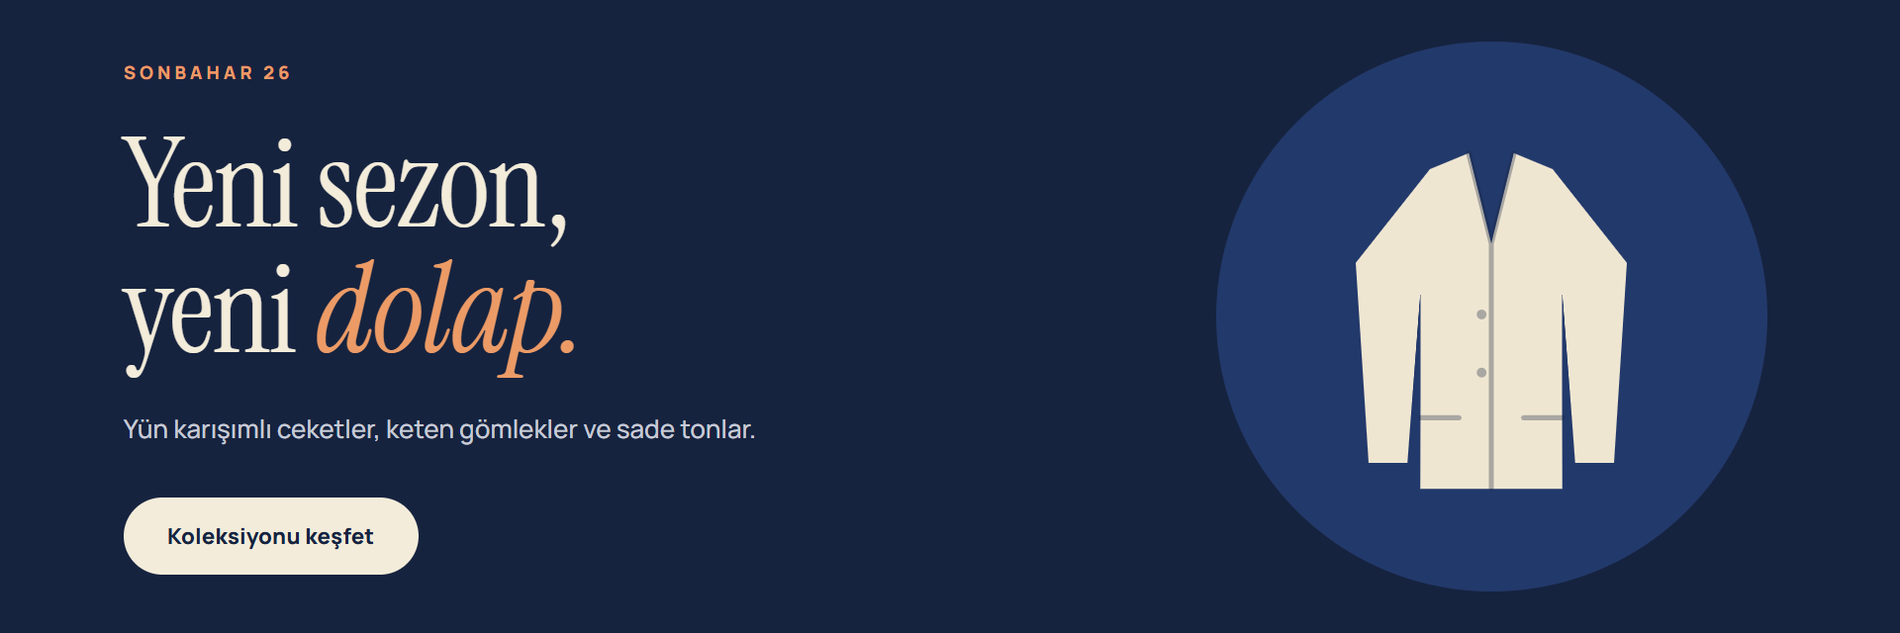
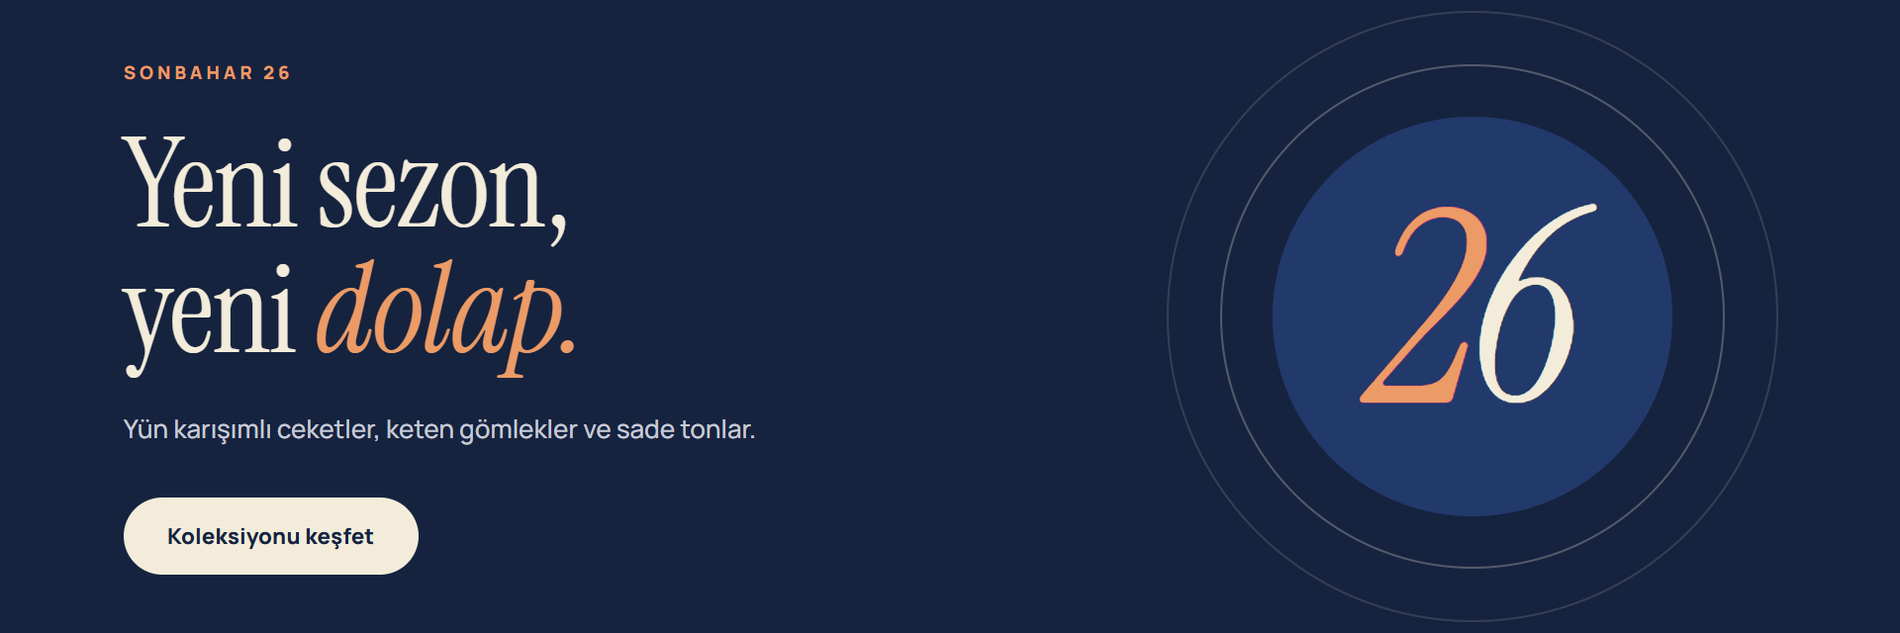
Örnek: mağaza kurulum paketi düzeltmeleri

Changed region(s): [[0.625, 0.0625, 0.9375, 0.9375]]

diff --git a/magaza-kurulum/index.html b/magaza-kurulum/index.html
@@ -93,7 +93,11 @@ tfoot td{background:#f1e9d6;font-weight:700}
 .sld .mo{display:none}
 .okl{position:absolute;top:50%;transform:translateY(-50%);width:42px;height:42px;border-radius:50%;background:rgba(255,253,248,.92);color:var(--lacivert);display:grid;place-items:center;box-shadow:0 4px 14px rgba(0,0,0,.18);transition:transform .15s,background .15s;z-index:2}
 .okl:hover{background:#fff;transform:translateY(-50%) scale(1.06)}
-.okl.g{left:16px}.okl.i{right:16px}
+.okl.g{left:12px}.okl.i{right:12px}
+.hero .bn:not(.m) .tx{left:10cqw}
+.hero .b1:not(.m) .art{right:14cqw}
+.hero .b2:not(.m) .art{right:11cqw}
+.hero .b3:not(.m) .art{right:11cqw}
 .noktalar{position:absolute;left:0;right:0;bottom:14px;display:flex;justify-content:center;gap:8px;z-index:2}
 .noktalar button{width:9px;height:9px;border-radius:99px;background:rgba(255,253,248,.5);transition:width .2s,background .2s;padding:0}
 .noktalar button[aria-current=true]{width:26px;background:#fffdf8}
@@ -162,7 +166,7 @@ tfoot td{background:#f1e9d6;font-weight:700}
   .sld .d{display:none}.sld .mo{display:block}
   .okl{width:34px;height:34px;top:auto;bottom:8px;transform:none}.okl:hover{transform:scale(1.06)}.okl.g{left:12px}.okl.i{right:12px}
   .noktalar{bottom:17px}
-  .kt{aspect-ratio:4/3.7}.kt .sil{width:30%;right:9%;top:9%}.kt b{font-size:24px}.kt span{left:14px;right:10px;bottom:12px}
+  .kt{aspect-ratio:4/3.7}.kt .sil{width:26%;right:8%;top:8%}.kt b{font-size:21px}.kt span{left:14px;right:34%;bottom:12px}.kt small{display:block;line-height:1.3}
 }
 
 /* --- 3. banner'lar (cqw: 1cqw = kapsayıcının %1'i; 1920 px genişlikte birebir ölçeklenir) --- */
@@ -184,11 +188,16 @@ tfoot td{background:#f1e9d6;font-weight:700}
 .b1{background:var(--lacivert);color:#f3ecda}
 .b1 .et{color:var(--vurguAcik)}.b1 h3 em{color:var(--vurguAcik)}.b1 p{color:#c7cbd6}
 .b1 .cta{background:#f3ecda;color:var(--lacivert)}
-.b1 .art{right:7cqw;top:50%;width:29cqw;height:29cqw;margin-top:-14.5cqw}
-.b1 .daire{position:absolute;inset:0;border-radius:50%;background:#22396b}
-.b1 .art .sil{position:absolute;width:17cqw;height:auto;left:50%;top:52%;transform:translate(-50%,-50%)}
-.b1.m .art{right:-8cqw;top:auto;bottom:-6cqw;width:58cqw;height:58cqw;margin-top:0}
-.b1.m .art .sil{width:34cqw}
+.b1 .art{right:12cqw;top:50%;width:21cqw;height:21cqw;margin-top:-10.5cqw}
+.b1 .art span{position:absolute;border-radius:50%}
+.b1 .daire{inset:0;background:#22396b}
+.b1 .halka{border:.14cqw solid rgba(243,236,218,.28)}
+.b1 .h1{inset:-2.8cqw}.b1 .h2{inset:-5.6cqw;border-color:rgba(243,236,218,.14)}
+.b1 .yirmi{left:0;right:0;top:50%;transform:translateY(-52%);text-align:center;border-radius:0!important;font:italic 400 14cqw/1 var(--serif);color:#f3ecda;letter-spacing:-.02em}
+.b1 .yirmi::first-letter{color:var(--vurguAcik)}
+.b1.m .art{right:auto;left:50%;top:auto;bottom:8cqw;width:27cqw;height:27cqw;margin:0 0 0 -13.5cqw}
+.b1.m .h1{inset:-3.2cqw}.b1.m .h2{inset:-6.4cqw}
+.b1.m .yirmi{font-size:18cqw}
 /* 2: krem, yalnız yazı */
 .b2{background:var(--krem);color:var(--lacivert)}
 .b2 .et{color:var(--vurgu)}.b2 h3 em{color:var(--vurgu)}.b2 p{color:#4d5570}
@@ -202,9 +211,9 @@ tfoot td{background:#f1e9d6;font-weight:700}
 .b3{background:var(--vurgu);color:#fbf4e4}
 .b3 .et{color:#f4d6b0}.b3 h3 em{color:#f4d6b0}.b3 p{color:#fbe8d0}
 .b3 .cta{background:#fbf4e4;color:#8f3f12}
-.b3 .art{right:8cqw;top:50%;width:30cqw;margin-top:-10cqw;color:#fbf4e4}
+.b3 .art{right:7cqw;top:50%;width:41cqw;margin-top:-7.6cqw;color:#fbf4e4}
 .b3 .kargo{display:block;width:100%;height:auto}
-.b3.m .art{right:auto;left:8.5cqw;top:auto;bottom:13cqw;width:66cqw;margin-top:0}
+.b3.m .art{right:auto;left:8.5cqw;top:auto;bottom:9cqw;width:72cqw;margin-top:0}
 
 /* 3. bölüm yerleşimi */
 .bset{display:grid;grid-template-columns:minmax(0,1fr) 250px;grid-template-areas:"d m" "t m";gap:14px 26px;padding:24px 0;border-top:1px solid var(--cizgi)}
@@ -291,12 +300,12 @@ footer{padding:48px 0 56px;color:var(--soluk);font-size:13px}
 
 <svg width="0" height="0" style="position:absolute" aria-hidden="true" focusable="false">
 <defs>
-<symbol id="g-tisort" viewBox="0 0 100 120"><path fill="currentColor" d="M31 13 44 8Q50 18 56 8L69 13 93 34 81 50 70 43V108H30V43L19 50 7 34Z"/><path fill="none" style="stroke:var(--det)" stroke-width="1.6" stroke-linecap="round" d="M44 8Q50 18 56 8M30 104H70"/></symbol>
-<symbol id="g-gomlek" viewBox="0 0 100 120"><path fill="currentColor" d="M32 12 43 7 50 17 57 7 68 12 92 74 81 79 70 47V109H30V47L19 79 8 74Z"/><path fill="none" style="stroke:var(--det)" stroke-width="1.6" stroke-linecap="round" stroke-linejoin="round" d="M43 7 50 17 57 7M50 17V109M30 104H70"/><g style="fill:var(--det)"><circle cx="50" cy="34" r="1.5"/><circle cx="50" cy="52" r="1.5"/><circle cx="50" cy="70" r="1.5"/><circle cx="50" cy="88" r="1.5"/></g></symbol>
-<symbol id="g-ceket" viewBox="0 0 100 120"><path fill="currentColor" d="M31 11 43 6 50 34 57 6 69 11 92 40 88 102 76 102 72 50V110H28V50L24 102 12 102 8 40Z"/><path fill="none" style="stroke:var(--det)" stroke-width="1.6" stroke-linecap="round" stroke-linejoin="round" d="M43 6 50 34 57 6M50 34V110M28 88H40M60 88H72"/><g style="fill:var(--det)"><circle cx="47" cy="56" r="1.5"/><circle cx="47" cy="74" r="1.5"/></g></symbol>
+<symbol id="g-tisort" viewBox="0 0 100 120"><path fill="currentColor" d="M40 14 22 20 5 42 18 53 24 46V106H76V46L82 53 95 42 78 20 60 14Q50 23 40 14Z"/><path fill="none" style="stroke:var(--det)" stroke-width="1.8" stroke-linecap="round" d="M40 14Q50 23 60 14M42 17Q50 25 58 17M24 100H76"/></symbol>
+<symbol id="g-gomlek" viewBox="0 0 100 120"><path fill="currentColor" d="M36 12 20 19 6 80 19 84 27 50V109H73V50L81 84 94 80 80 19 64 12Z"/><path fill="#000" fill-opacity=".2" d="M36 12 50 21 64 12 66 17 52 34 50 29 48 34 34 17Z"/><path fill="none" style="stroke:var(--det)" stroke-width="1.6" stroke-linecap="round" stroke-linejoin="round" d="M34 17 48 34 50 29 52 34 66 17M50 29V109M55 29V109M27 100H73M6 76 19 80M94 76 81 80M58 46H69V58H58Z"/><g style="fill:var(--det)"><circle cx="52.5" cy="44" r="1.3"/><circle cx="52.5" cy="62" r="1.3"/><circle cx="52.5" cy="80" r="1.3"/><circle cx="52.5" cy="98" r="1.3"/></g></symbol>
+<symbol id="g-ceket" viewBox="0 0 100 120"><path fill="currentColor" d="M27 14 41 8 50 46 59 8 73 14 94 44 88 104 76 104 73 56V112H27V56L24 104 12 104 6 44Z"/><path fill="#f4eee0" d="M41 8Q50 15 59 8L50 46Z"/><path fill="#000" fill-opacity=".22" d="M41 8 50 46 40 54 32 38 22 32 30 17Z"/><path fill="#000" fill-opacity=".22" d="M59 8 50 46 60 54 68 38 78 32 70 17Z"/><path fill="none" style="stroke:var(--det)" stroke-width="1.6" stroke-linecap="round" stroke-linejoin="round" d="M41 8 50 46 40 54 32 38 22 32 30 17M59 8 50 46 60 54 68 38 78 32 70 17M50 54V112M40 54 50 46M33 84H46M54 84H67M12 100H24M76 100H88"/><g style="fill:var(--det)"><circle cx="47" cy="64" r="1.6"/><circle cx="47" cy="74" r="1.6"/></g></symbol>
 <symbol id="g-pantolon" viewBox="0 0 100 120"><path fill="currentColor" d="M27 6H73L79 113H56L50 44 44 113H21Z"/><path fill="none" style="stroke:var(--det)" stroke-width="1.6" stroke-linecap="round" d="M27 14H73M50 14V44M35 22 41 22"/></symbol>
 <symbol id="g-elbise" viewBox="0 0 100 120"><path fill="currentColor" d="M37 6H44Q50 17 56 6H63L68 38 86 113H14L32 38Z"/><path fill="none" style="stroke:var(--det)" stroke-width="1.6" stroke-linecap="round" d="M44 6Q50 17 56 6M32 38Q50 44 68 38"/></symbol>
-<symbol id="g-triko" viewBox="0 0 100 120"><path fill="currentColor" d="M33 12 44 8Q50 15 56 8L67 12 93 82 82 88 71 54V108H29V54L18 88 7 82Z"/><path fill="none" style="stroke:var(--det)" stroke-width="1.6" stroke-linecap="round" d="M44 8Q50 15 56 8M29 100H71M40 100V108M50 100V108M60 100V108"/></symbol>
+<symbol id="g-triko" viewBox="0 0 100 120"><path fill="currentColor" d="M38 13 20 20 5 78 18 83 26 50V104H74V50L82 83 95 78 80 20 62 13Q50 22 38 13Z"/><path fill="none" style="stroke:var(--det)" stroke-width="1.8" stroke-linecap="round" d="M38 13Q50 22 62 13M40 16Q50 25 60 16M26 97H74M34 97V104M42 97V104M50 97V104M58 97V104M66 97V104M7 71 20 76M93 71 80 76"/></symbol>
 <symbol id="g-canta" viewBox="0 0 100 120"><path fill="none" stroke="currentColor" stroke-width="5" stroke-linecap="round" d="M33 48V36Q33 20 50 20T67 36V48"/><path fill="currentColor" d="M18 46H82L89 106H11Z"/><path fill="none" style="stroke:var(--det)" stroke-width="1.6" stroke-linecap="round" d="M20 60H80"/></symbol>
 <symbol id="g-sapka" viewBox="0 0 100 120"><path fill="currentColor" d="M27 76 31 34Q50 24 69 34L73 76Z"/><path fill="currentColor" d="M8 80Q50 62 92 80Q50 98 8 80Z"/><path fill="none" style="stroke:var(--det)" stroke-width="1.6" stroke-linecap="round" d="M28 66Q50 72 72 66"/></symbol>
 </defs></svg>
@@ -306,7 +315,7 @@ footer{padding:48px 0 56px;color:var(--soluk);font-size:13px}
 <header class="ust">
 <div class="etiket">Örnek çalışma · Kurgusal marka · Boztaş Digital</div>
 <h1>Giyim markası için <em>mağaza kurulum paketi</em> (örnek)</h1>
-<p class="giris">Kurgusal bir giyim markası için hazırlanmış örnek: ana sayfa taslağı, banner'lar, kategori ve SEO planı, kurulum adımları ve teslim listesi. Ticimax, ikas ya da WooCommerce'te mağazayı nasıl kuracağımızı ve neyi teslim edeceğimizi gösterir.</p>
+<p class="giris">Kurgusal bir giyim markası için hazırlanmış örnek: ana sayfa taslağı, banner'lar, kategori ve SEO planı, kurulum adımları ve teslim listesi. Ticimax, ikas ya da WooCommerce'te mağazayı nasıl kuracağımızı ve neyi teslim edeceğimizi gösterir. Bu sayfa kurgusal bir örnektir; gerçek mağaza referansı değildir.</p>
 <div class="ozet">
 <div><b>7</b>iş günü<br>kurulumdan teslime</div>
 <div><b>1</b>tema uyarlaması<br>renk, logo, ana sayfa blokları</div>
@@ -334,11 +343,11 @@ footer{padding:48px 0 56px;color:var(--soluk);font-size:13px}
 </div>
 
 <div class="hero" id="hero" aria-roledescription="slider" aria-label="Kampanya banner'ları">
-<div class="sld on"><div class="d"><div class="bn b1" role="img" aria-label="Banner 1: Sonbahar koleksiyonu"><div class="tx"><span class="et">Sonbahar 26</span><h3>Yeni sezon,<br>yeni <em>dolap.</em></h3><p>Yün karışımlı ceketler, keten gömlekler ve sade tonlar.</p><span class="cta">Koleksiyonu keşfet</span></div><div class="art"><span class="daire"></span><svg class="sil" viewBox="0 0 100 120" style="color:#efe6d2;--det:rgba(22,35,63,.32)" aria-hidden="true" focusable="false"><use href="#g-ceket"/></svg></div></div></div><div class="mo"><div class="bn b1 m" role="img" aria-label="Banner 1: Sonbahar koleksiyonu"><div class="tx"><span class="et">Sonbahar 26</span><h3>Yeni sezon,<br>yeni <em>dolap.</em></h3><p>Yün karışımlı ceketler, keten gömlekler ve sade tonlar.</p><span class="cta">Koleksiyonu keşfet</span></div><div class="art"><span class="daire"></span><svg class="sil" viewBox="0 0 100 120" style="color:#efe6d2;--det:rgba(22,35,63,.32)" aria-hidden="true" focusable="false"><use href="#g-ceket"/></svg></div></div></div></div>
+<div class="sld on"><div class="d"><div class="bn b1" role="img" aria-label="Banner 1: Sonbahar koleksiyonu"><div class="tx"><span class="et">Sonbahar 26</span><h3>Yeni sezon,<br>yeni <em>dolap.</em></h3><p>Yün karışımlı ceketler, keten gömlekler ve sade tonlar.</p><span class="cta">Koleksiyonu keşfet</span></div><div class="art"><span class="halka h1"></span><span class="halka h2"></span><span class="daire"></span><span class="yirmi">26</span></div></div></div><div class="mo"><div class="bn b1 m" role="img" aria-label="Banner 1: Sonbahar koleksiyonu"><div class="tx"><span class="et">Sonbahar 26</span><h3>Yeni sezon,<br>yeni <em>dolap.</em></h3><p>Yün karışımlı ceketler, keten gömlekler ve sade tonlar.</p><span class="cta">Koleksiyonu keşfet</span></div><div class="art"><span class="halka h1"></span><span class="halka h2"></span><span class="daire"></span><span class="yirmi">26</span></div></div></div></div>
 <div class="sld"><div class="d"><div class="bn b2" role="img" aria-label="Banner 2: Basic parçalarda yüzde 20 indirim"><div class="tx"><span class="et">Haftanın fırsatı</span><h3>Basic parçalarda<br><em>sezon indirimi.</em></h3><p>Tişört, triko ve pantolonlarda seçili renkler.</p><span class="cta">İndirimi gör</span></div><div class="art"><span class="yuz">%20</span></div></div></div><div class="mo"><div class="bn b2 m" role="img" aria-label="Banner 2: Basic parçalarda yüzde 20 indirim"><div class="tx"><span class="et">Haftanın fırsatı</span><h3>Basic parçalarda<br><em>sezon indirimi.</em></h3><p>Tişört, triko ve pantolonlarda seçili renkler.</p><span class="cta">İndirimi gör</span></div><div class="art"><span class="yuz">%20</span></div></div></div></div>
 <div class="sld"><div class="d"><div class="bn b3" role="img" aria-label="Banner 3: Ücretsiz kargo ve 14 gün iade"><div class="tx"><span class="et">Alışverişte güven</span><h3>Ücretsiz kargo,<br><em>14 gün iade.</em></h3><p>750 ₺ ve üzeri siparişlerde kargo bizden.</p><span class="cta">Alışverişe başla</span></div><div class="art">
-<svg class="kargo" viewBox="0 0 200 120" aria-hidden="true" fill="none" stroke="currentColor" stroke-width="3.2" stroke-linecap="round" stroke-linejoin="round"><path d="M14 30H118V86H14Z"/><path d="M118 46H156L184 70V86H118Z"/><circle cx="52" cy="92" r="11" fill="#b4531e"/><circle cx="150" cy="92" r="11" fill="#b4531e"/><path d="M30 48H64M30 62H52" opacity=".55"/></svg></div></div></div><div class="mo"><div class="bn b3 m" role="img" aria-label="Banner 3: Ücretsiz kargo ve 14 gün iade"><div class="tx"><span class="et">Alışverişte güven</span><h3>Ücretsiz kargo,<br><em>14 gün iade.</em></h3><p>750 ₺ ve üzeri siparişlerde kargo bizden.</p><span class="cta">Alışverişe başla</span></div><div class="art">
-<svg class="kargo" viewBox="0 0 200 120" aria-hidden="true" fill="none" stroke="currentColor" stroke-width="3.2" stroke-linecap="round" stroke-linejoin="round"><path d="M14 30H118V86H14Z"/><path d="M118 46H156L184 70V86H118Z"/><circle cx="52" cy="92" r="11" fill="#b4531e"/><circle cx="150" cy="92" r="11" fill="#b4531e"/><path d="M30 48H64M30 62H52" opacity=".55"/></svg></div></div></div></div>
+<svg class="kargo" viewBox="8 26 184 82" aria-hidden="true" fill="none" stroke="currentColor" stroke-width="3.2" stroke-linecap="round" stroke-linejoin="round"><path d="M14 30H118V86H14Z"/><path d="M118 46H156L184 70V86H118Z"/><circle cx="52" cy="92" r="11" fill="#b4531e"/><circle cx="150" cy="92" r="11" fill="#b4531e"/><path d="M30 48H64M30 62H52" opacity=".55"/></svg></div></div></div><div class="mo"><div class="bn b3 m" role="img" aria-label="Banner 3: Ücretsiz kargo ve 14 gün iade"><div class="tx"><span class="et">Alışverişte güven</span><h3>Ücretsiz kargo,<br><em>14 gün iade.</em></h3><p>750 ₺ ve üzeri siparişlerde kargo bizden.</p><span class="cta">Alışverişe başla</span></div><div class="art">
+<svg class="kargo" viewBox="8 26 184 82" aria-hidden="true" fill="none" stroke="currentColor" stroke-width="3.2" stroke-linecap="round" stroke-linejoin="round"><path d="M14 30H118V86H14Z"/><path d="M118 46H156L184 70V86H118Z"/><circle cx="52" cy="92" r="11" fill="#b4531e"/><circle cx="150" cy="92" r="11" fill="#b4531e"/><path d="M30 48H64M30 62H52" opacity=".55"/></svg></div></div></div></div>
 <button class="okl g" type="button" aria-label="Önceki banner"><svg viewBox="0 0 24 24" width="20" height="20" fill="none" stroke="currentColor" stroke-width="2" stroke-linecap="round" stroke-linejoin="round"><path d="m14.5 6-6 6 6 6"/></svg></button>
 <button class="okl i" type="button" aria-label="Sonraki banner"><svg viewBox="0 0 24 24" width="20" height="20" fill="none" stroke="currentColor" stroke-width="2" stroke-linecap="round" stroke-linejoin="round"><path d="m9.5 6 6 6-6 6"/></svg></button>
 <div class="noktalar"><button type="button" aria-label="Banner 1" aria-current="true"></button><button type="button" aria-label="Banner 2"></button><button type="button" aria-label="Banner 3"></button></div>
@@ -371,7 +380,7 @@ footer{padding:48px 0 56px;color:var(--soluk);font-size:13px}
 <button class="fav" type="button" aria-label="Basic Pamuk Tişört favorilere ekle"><svg viewBox="0 0 24 24" width="18" height="18" fill="none" stroke="currentColor" stroke-width="1.7" stroke-linejoin="round"><path d="M12 20s-7-4.4-7-10a4 4 0 0 1 7-2.4A4 4 0 0 1 19 10c0 5.6-7 10-7 10Z"/></svg></button>
 <button class="hizli" type="button">Sepete ekle</button>
 </div>
-<div class="bilgi"><span class="kat">Erkek · Tişört</span><h4><a href="#urun">Basic Pamuk Tişört</a></h4><div class="fiyat"><b>490 ₺</b><s>610 ₺</s></div><div class="renk" aria-hidden="true"><i style="background:#1d2e52"></i><i style="background:#e9e3d6"></i><i style="background:#b4531e"></i></div></div>
+<div class="bilgi"><span class="kat">Erkek · Tişört</span><h4><a href="#urun">Basic Pamuk Tişört</a></h4><div class="fiyat"><b>480 ₺</b><s>600 ₺</s></div><div class="renk" aria-hidden="true"><i style="background:#1d2e52"></i><i style="background:#e9e3d6"></i><i style="background:#b4531e"></i></div></div>
 </article>
 <article class="urun">
 <div class="gor" style="background:#e6dfcc">
@@ -383,11 +392,11 @@ footer{padding:48px 0 56px;color:var(--soluk);font-size:13px}
 </article>
 <article class="urun">
 <div class="gor" style="background:#eee7d6">
-<a class="gorLink" href="#urun" aria-label="Kargo Pantolon ürün sayfası"><svg class="sil" viewBox="0 0 100 120" style="color:#b5ad9d;--det:rgba(22,35,63,.38)" aria-hidden="true" focusable="false"><use href="#g-pantolon"/></svg></a>
+<a class="gorLink" href="#urun" aria-label="Kargo Pantolon ürün sayfası"><svg class="sil" viewBox="0 0 100 120" style="color:#b5ad9d;--det:rgba(22,35,63,.38)" aria-hidden="true" focusable="false"><use href="#g-pantolon"/></svg></a><span class="rozet ind">%20</span>
 <button class="fav" type="button" aria-label="Kargo Pantolon favorilere ekle"><svg viewBox="0 0 24 24" width="18" height="18" fill="none" stroke="currentColor" stroke-width="1.7" stroke-linejoin="round"><path d="M12 20s-7-4.4-7-10a4 4 0 0 1 7-2.4A4 4 0 0 1 19 10c0 5.6-7 10-7 10Z"/></svg></button>
 <button class="hizli" type="button">Sepete ekle</button>
 </div>
-<div class="bilgi"><span class="kat">Erkek · Pantolon</span><h4><a href="#urun">Kargo Pantolon</a></h4><div class="fiyat"><b>1.150 ₺</b></div><div class="renk" aria-hidden="true"><i style="background:#b5ad9d"></i><i style="background:#1d2e52"></i></div></div>
+<div class="bilgi"><span class="kat">Erkek · Pantolon</span><h4><a href="#urun">Kargo Pantolon</a></h4><div class="fiyat"><b>1.200 ₺</b><s>1.500 ₺</s></div><div class="renk" aria-hidden="true"><i style="background:#b5ad9d"></i><i style="background:#1d2e52"></i></div></div>
 </article>
 <article class="urun">
 <div class="gor" style="background:#ebe3d0">
@@ -399,11 +408,11 @@ footer{padding:48px 0 56px;color:var(--soluk);font-size:13px}
 </article>
 <article class="urun">
 <div class="gor" style="background:#e8e1ce">
-<a class="gorLink" href="#urun" aria-label="Triko Kazak ürün sayfası"><svg class="sil" viewBox="0 0 100 120" style="color:#8e9bb3;--det:rgba(22,35,63,.38)" aria-hidden="true" focusable="false"><use href="#g-triko"/></svg></a>
+<a class="gorLink" href="#urun" aria-label="Triko Kazak ürün sayfası"><svg class="sil" viewBox="0 0 100 120" style="color:#8e9bb3;--det:rgba(22,35,63,.38)" aria-hidden="true" focusable="false"><use href="#g-triko"/></svg></a><span class="rozet ind">%20</span>
 <button class="fav" type="button" aria-label="Triko Kazak favorilere ekle"><svg viewBox="0 0 24 24" width="18" height="18" fill="none" stroke="currentColor" stroke-width="1.7" stroke-linejoin="round"><path d="M12 20s-7-4.4-7-10a4 4 0 0 1 7-2.4A4 4 0 0 1 19 10c0 5.6-7 10-7 10Z"/></svg></button>
 <button class="hizli" type="button">Sepete ekle</button>
 </div>
-<div class="bilgi"><span class="kat">Kadın · Triko</span><h4><a href="#urun">Triko Kazak</a></h4><div class="fiyat"><b>990 ₺</b></div><div class="renk" aria-hidden="true"><i style="background:#8e9bb3"></i><i style="background:#d6b072"></i></div></div>
+<div class="bilgi"><span class="kat">Kadın · Triko</span><h4><a href="#urun">Triko Kazak</a></h4><div class="fiyat"><b>1.000 ₺</b><s>1.250 ₺</s></div><div class="renk" aria-hidden="true"><i style="background:#8e9bb3"></i><i style="background:#d6b072"></i></div></div>
 </article>
 <article class="urun">
 <div class="gor" style="background:#ede5d2">
@@ -438,9 +447,9 @@ footer{padding:48px 0 56px;color:var(--soluk);font-size:13px}
 <div class="bas"><span class="n">03</span><h2>Banner seti</h2></div>
 <p class="alt">Yazı ağırlıklı, sade üç banner. Her birinin masaüstü (1920 × 640) ve mobil (750 × 900) karşılığı var; PNG olarak teslim edilir ve yukarıdaki slider'da aynen kullanılır.</p>
 <div class="bset">
-<div class="bkolon"><div class="bn b1" role="img" aria-label="Banner 1: Sonbahar koleksiyonu"><div class="tx"><span class="et">Sonbahar 26</span><h3>Yeni sezon,<br>yeni <em>dolap.</em></h3><p>Yün karışımlı ceketler, keten gömlekler ve sade tonlar.</p><span class="cta">Koleksiyonu keşfet</span></div><div class="art"><span class="daire"></span><svg class="sil" viewBox="0 0 100 120" style="color:#efe6d2;--det:rgba(22,35,63,.32)" aria-hidden="true" focusable="false"><use href="#g-ceket"/></svg></div></div><p class="bcap"><b>Masaüstü</b> · 1920 × 640 px · <a href="banner-1-masaustu.png" download>banner-1-masaustu.png</a></p></div>
-<div class="bkolon bmob"><div class="bn b1 m" role="img" aria-label="Banner 1: Sonbahar koleksiyonu"><div class="tx"><span class="et">Sonbahar 26</span><h3>Yeni sezon,<br>yeni <em>dolap.</em></h3><p>Yün karışımlı ceketler, keten gömlekler ve sade tonlar.</p><span class="cta">Koleksiyonu keşfet</span></div><div class="art"><span class="daire"></span><svg class="sil" viewBox="0 0 100 120" style="color:#efe6d2;--det:rgba(22,35,63,.32)" aria-hidden="true" focusable="false"><use href="#g-ceket"/></svg></div></div><p class="bcap"><b>Mobil</b> · 750 × 900 px · <a href="banner-1-mobil.png" download>banner-1-mobil.png</a></p></div>
-<div class="bmetin"><h3>Banner 1 · Yeni sezon</h3><p>Koyu lacivert zemin, tek ceket silüeti. Ana sayfada ilk görünen banner; koleksiyon sayfasına gider.</p></div>
+<div class="bkolon"><div class="bn b1" role="img" aria-label="Banner 1: Sonbahar koleksiyonu"><div class="tx"><span class="et">Sonbahar 26</span><h3>Yeni sezon,<br>yeni <em>dolap.</em></h3><p>Yün karışımlı ceketler, keten gömlekler ve sade tonlar.</p><span class="cta">Koleksiyonu keşfet</span></div><div class="art"><span class="halka h1"></span><span class="halka h2"></span><span class="daire"></span><span class="yirmi">26</span></div></div><p class="bcap"><b>Masaüstü</b> · 1920 × 640 px · <a href="banner-1-masaustu.png" download>banner-1-masaustu.png</a></p></div>
+<div class="bkolon bmob"><div class="bn b1 m" role="img" aria-label="Banner 1: Sonbahar koleksiyonu"><div class="tx"><span class="et">Sonbahar 26</span><h3>Yeni sezon,<br>yeni <em>dolap.</em></h3><p>Yün karışımlı ceketler, keten gömlekler ve sade tonlar.</p><span class="cta">Koleksiyonu keşfet</span></div><div class="art"><span class="halka h1"></span><span class="halka h2"></span><span class="daire"></span><span class="yirmi">26</span></div></div><p class="bcap"><b>Mobil</b> · 750 × 900 px · <a href="banner-1-mobil.png" download>banner-1-mobil.png</a></p></div>
+<div class="bmetin"><h3>Banner 1 · Yeni sezon</h3><p>Koyu lacivert zemin, büyük italik sezon rakamı. Ana sayfada ilk görünen banner; koleksiyon sayfasına gider.</p></div>
 </div>
 <div class="bset">
 <div class="bkolon"><div class="bn b2" role="img" aria-label="Banner 2: Basic parçalarda yüzde 20 indirim"><div class="tx"><span class="et">Haftanın fırsatı</span><h3>Basic parçalarda<br><em>sezon indirimi.</em></h3><p>Tişört, triko ve pantolonlarda seçili renkler.</p><span class="cta">İndirimi gör</span></div><div class="art"><span class="yuz">%20</span></div></div><p class="bcap"><b>Masaüstü</b> · 1920 × 640 px · <a href="banner-2-masaustu.png" download>banner-2-masaustu.png</a></p></div>
@@ -449,9 +458,9 @@ footer{padding:48px 0 56px;color:var(--soluk);font-size:13px}
 </div>
 <div class="bset">
 <div class="bkolon"><div class="bn b3" role="img" aria-label="Banner 3: Ücretsiz kargo ve 14 gün iade"><div class="tx"><span class="et">Alışverişte güven</span><h3>Ücretsiz kargo,<br><em>14 gün iade.</em></h3><p>750 ₺ ve üzeri siparişlerde kargo bizden.</p><span class="cta">Alışverişe başla</span></div><div class="art">
-<svg class="kargo" viewBox="0 0 200 120" aria-hidden="true" fill="none" stroke="currentColor" stroke-width="3.2" stroke-linecap="round" stroke-linejoin="round"><path d="M14 30H118V86H14Z"/><path d="M118 46H156L184 70V86H118Z"/><circle cx="52" cy="92" r="11" fill="#b4531e"/><circle cx="150" cy="92" r="11" fill="#b4531e"/><path d="M30 48H64M30 62H52" opacity=".55"/></svg></div></div><p class="bcap"><b>Masaüstü</b> · 1920 × 640 px · <a href="banner-3-masaustu.png" download>banner-3-masaustu.png</a></p></div>
+<svg class="kargo" viewBox="8 26 184 82" aria-hidden="true" fill="none" stroke="currentColor" stroke-width="3.2" stroke-linecap="round" stroke-linejoin="round"><path d="M14 30H118V86H14Z"/><path d="M118 46H156L184 70V86H118Z"/><circle cx="52" cy="92" r="11" fill="#b4531e"/><circle cx="150" cy="92" r="11" fill="#b4531e"/><path d="M30 48H64M30 62H52" opacity=".55"/></svg></div></div><p class="bcap"><b>Masaüstü</b> · 1920 × 640 px · <a href="banner-3-masaustu.png" download>banner-3-masaustu.png</a></p></div>
 <div class="bkolon bmob"><div class="bn b3 m" role="img" aria-label="Banner 3: Ücretsiz kargo ve 14 gün iade"><div class="tx"><span class="et">Alışverişte güven</span><h3>Ücretsiz kargo,<br><em>14 gün iade.</em></h3><p>750 ₺ ve üzeri siparişlerde kargo bizden.</p><span class="cta">Alışverişe başla</span></div><div class="art">
-<svg class="kargo" viewBox="0 0 200 120" aria-hidden="true" fill="none" stroke="currentColor" stroke-width="3.2" stroke-linecap="round" stroke-linejoin="round"><path d="M14 30H118V86H14Z"/><path d="M118 46H156L184 70V86H118Z"/><circle cx="52" cy="92" r="11" fill="#b4531e"/><circle cx="150" cy="92" r="11" fill="#b4531e"/><path d="M30 48H64M30 62H52" opacity=".55"/></svg></div></div><p class="bcap"><b>Mobil</b> · 750 × 900 px · <a href="banner-3-mobil.png" download>banner-3-mobil.png</a></p></div>
+<svg class="kargo" viewBox="8 26 184 82" aria-hidden="true" fill="none" stroke="currentColor" stroke-width="3.2" stroke-linecap="round" stroke-linejoin="round"><path d="M14 30H118V86H14Z"/><path d="M118 46H156L184 70V86H118Z"/><circle cx="52" cy="92" r="11" fill="#b4531e"/><circle cx="150" cy="92" r="11" fill="#b4531e"/><path d="M30 48H64M30 62H52" opacity=".55"/></svg></div></div><p class="bcap"><b>Mobil</b> · 750 × 900 px · <a href="banner-3-mobil.png" download>banner-3-mobil.png</a></p></div>
 <div class="bmetin"><h3>Banner 3 · Ücretsiz kargo ve iade</h3><p>Sıcak vurgu zemin. Kargo eşiği ve iade süresi müşterinin gerçek şartlarına göre yazılır.</p></div>
 </div>
 </section>
